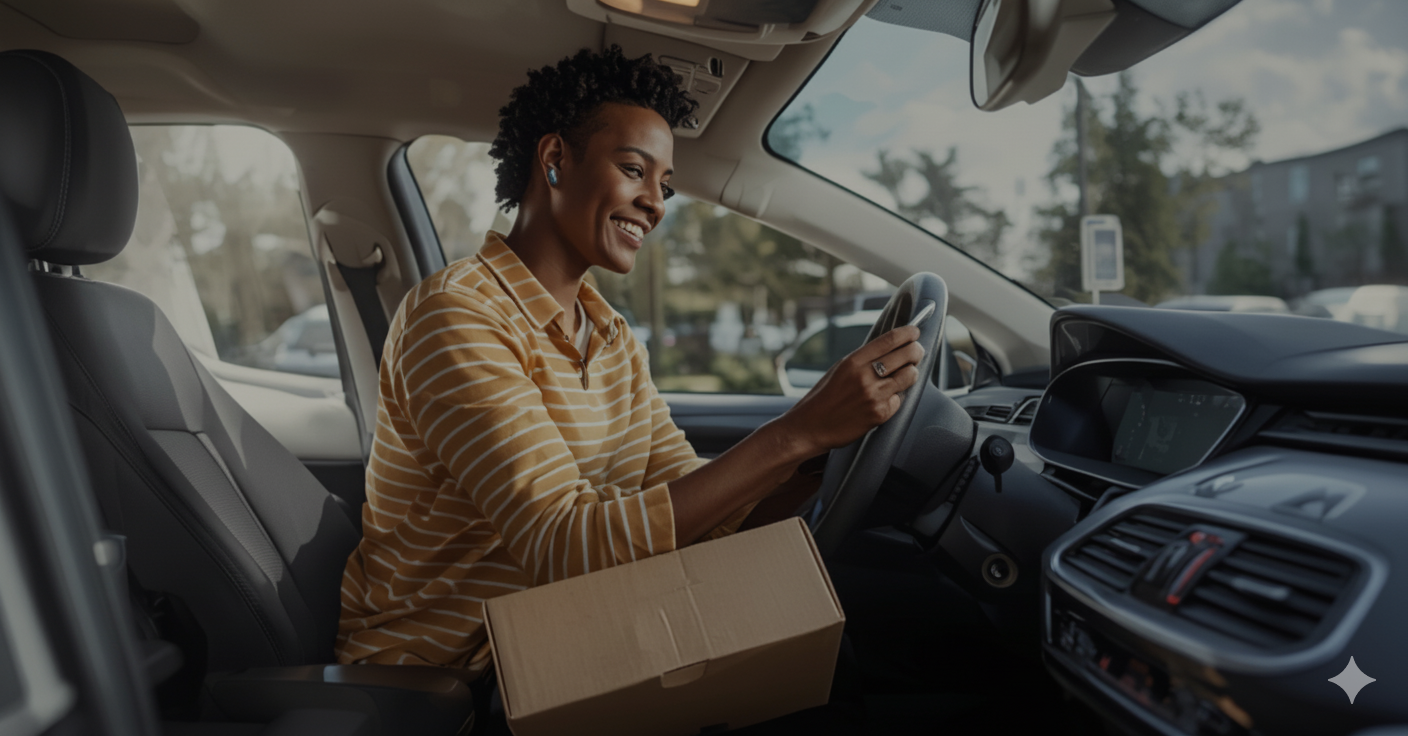
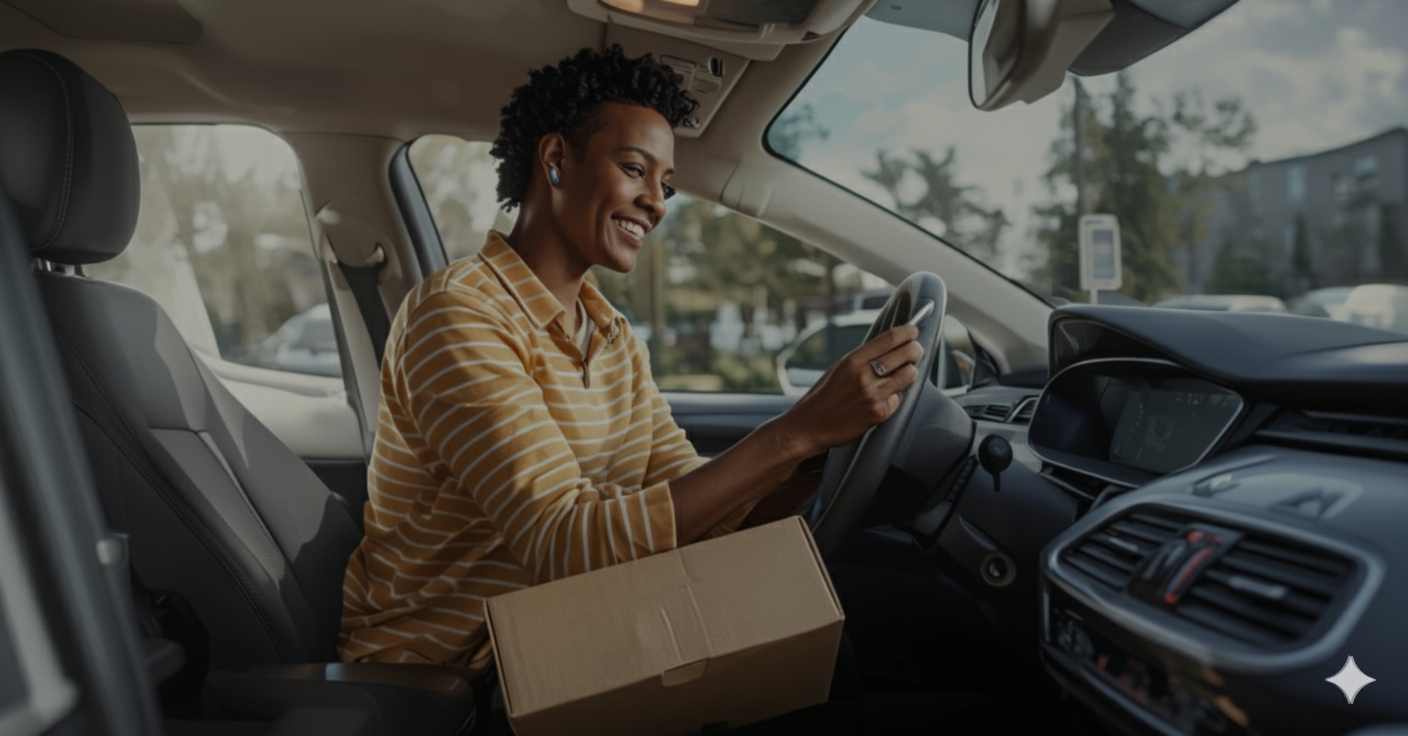
update

diff --git a/personal_car.html b/personal_car.html
@@ -321,85 +321,92 @@
             </div>
         </section>
         <!-- Why Personal Drivers Love Fore -->
-        <section class="container py-10">
-            <div class="text-center">
-                <h2 class="font-poppins font-medium  text-2xl md:text-3xl lg:text-4xl xl:text-5xl">Why Personal Drivers
-                    Love Fore</h2>
-            </div>
-            <div class="grid grid-cols-1 sm:grid-cols-2 md:grid-cols-2 lg:grid-cols-4 gap-4 pt-10 px-4 md:px-0">
-                <div class="p-6 shadow-md rounded-xl border border-gray-200">
-                    <div class="w-12 h-12 flex items-center justify-center">
-                        <img src="/assets/images/personal_love_pore (2).svg" alt="">
-                    </div>
-                    <h3 class="text-base md:text-lg font-medium font-inter mt-3">One Flat Fee</h3>
-                    <p class="text-sm md:text-base mt-2 font-poppins text-gray-700">Insurance, Maintenance & Roadside
-                        Included. No hidden costs, ever.</p>
+        <section class="py-10 bg-secondary">
+            <div class="container ">
+                <div class="text-center">
+                    <h2 class="font-poppins font-medium  text-2xl md:text-3xl lg:text-4xl xl:text-5xl">Why Personal
+                        Drivers
+                        Love Fore</h2>
                 </div>
+                <div class="grid grid-cols-1 sm:grid-cols-2 md:grid-cols-2 lg:grid-cols-4 gap-4 pt-10 px-4 md:px-0">
+                    <div class="p-6 shadow-md rounded-xl border border-gray-200">
+                        <div class="w-12 h-12 flex items-center justify-center">
+                            <img src="/assets/images/personal_love_pore (2).svg" alt="">
+                        </div>
+                        <h3 class="text-base md:text-lg font-medium font-inter mt-3">One Flat Fee</h3>
+                        <p class="text-sm md:text-base mt-2 font-poppins text-gray-700">Insurance, Maintenance &
+                            Roadside
+                            Included. No hidden costs, ever.</p>
+                    </div>
 
-                <div class="p-6 shadow-md rounded-xl border border-gray-200">
-                    <div class="w-10 h-10 flex items-center justify-center">
-                        <img src="/assets/images/personal_love_pore (4).svg" alt="">
+                    <div class="p-6 shadow-md rounded-xl border border-gray-200">
+                        <div class="w-10 h-10 flex items-center justify-center">
+                            <img src="/assets/images/personal_love_pore (4).svg" alt="">
+                        </div>
+                        <h3 class="text-base md:text-lg font-medium font-inter mt-4">No Long-Term Contract</h3>
+                        <p class="text-sm md:text-base mt-2 font-poppins text-gray-700">Keep It As Long As You Want;
+                            Return
+                            Anytime With Just 30 Days' Notice.</p>
                     </div>
-                    <h3 class="text-base md:text-lg font-medium font-inter mt-4">No Long-Term Contract</h3>
-                    <p class="text-sm md:text-base mt-2 font-poppins text-gray-700">Keep It As Long As You Want; Return
-                        Anytime With Just 30 Days' Notice.</p>
-                </div>
 
-                <div class="p-6 shadow-md rounded-xl border border-gray-200">
-                    <div class="w-10 h-10 flex items-center justify-center">
-                        <img src="/assets/images/personal_love_pore (1).svg" alt="">
+                    <div class="p-6 shadow-md rounded-xl border border-gray-200">
+                        <div class="w-10 h-10 flex items-center justify-center">
+                            <img src="/assets/images/personal_love_pore (1).svg" alt="">
+                        </div>
+                        <h3 class="text-base md:text-lg font-medium font-inter mt-4">Drive Safe, Save More</h3>
+                        <p class="text-sm md:text-base mt-2 font-poppins text-gray-700">Safe Drivers Automatically Earn
+                            Subscription Discounts.</p>
                     </div>
-                    <h3 class="text-base md:text-lg font-medium font-inter mt-4">Drive Safe, Save More</h3>
-                    <p class="text-sm md:text-base mt-2 font-poppins text-gray-700">Safe Drivers Automatically Earn
-                        Subscription Discounts.</p>
-                </div>
 
-                <div class="p-6 shadow-md rounded-xl border border-gray-200">
-                    <div class="w-10 h-10 flex items-center justify-center">
-                        <img src="/assets/images/personal_love_pore (3).svg" alt="">
+                    <div class="p-6 shadow-md rounded-xl border border-gray-200">
+                        <div class="w-10 h-10 flex items-center justify-center">
+                            <img src="/assets/images/personal_love_pore (3).svg" alt="">
+                        </div>
+                        <h3 class="text-base md:text-lg font-medium font-inter mt-4">Upgrade or Swap Anytime</h3>
+                        <p class="text-sm md:text-base mt-2 font-poppins text-gray-700">Need A Bigger Car For A Trip?
+                            Swap
+                            It. Want To Try An EV? Go For It.</p>
                     </div>
-                    <h3 class="text-base md:text-lg font-medium font-inter mt-4">Upgrade or Swap Anytime</h3>
-                    <p class="text-sm md:text-base mt-2 font-poppins text-gray-700">Need A Bigger Car For A Trip? Swap
-                        It. Want To Try An EV? Go For It.</p>
                 </div>
-            </div>
-            <div class="flex flex-col items-center gap-6 mt-5 justify-center md:flex-row md:gap-12 md:px-4 lg:px-0">
-                <div class="flex items-center space-x-2">
-                    <div class="flex items-center justify-center flex-shrink-0 w-6 h-6 text-[#0025D4]">
-                        <svg xmlns="http://www.w3.org/2000/svg" viewBox="0 0 24 24" fill="none" stroke="currentColor"
-                            stroke-width="2" stroke-linecap="round" stroke-linejoin="round">
-                            <path d="M12 22s8-4 8-10V5l-8-3-8 3v7c0 6 8 10 8 10z"></path>
-                            <polyline points="9 12 12 15 15 9"></polyline>
-                        </svg>
+                <div class="flex flex-col items-center gap-6 mt-5 justify-center md:flex-row md:gap-12 md:px-4 lg:px-0">
+                    <div class="flex items-center space-x-2">
+                        <div class="flex items-center justify-center flex-shrink-0 w-6 h-6 text-[#0025D4]">
+                            <svg xmlns="http://www.w3.org/2000/svg" viewBox="0 0 24 24" fill="none"
+                                stroke="currentColor" stroke-width="2" stroke-linecap="round" stroke-linejoin="round">
+                                <path d="M12 22s8-4 8-10V5l-8-3-8 3v7c0 6 8 10 8 10z"></path>
+                                <polyline points="9 12 12 15 15 9"></polyline>
+                            </svg>
+                        </div>
+                        <span class="text-base font-semibold text-[#0025D4] font-helvetica">All plans include
+                            insurance</span>
                     </div>
-                    <span class="text-base font-semibold text-[#0025D4] font-helvetica">All plans include
-                        insurance</span>
-                </div>
 
-                <div class="flex items-center space-x-2">
-                    <div class="flex items-center justify-center flex-shrink-0 w-6 h-6 text-[#0025D4]">
-                        <svg xmlns="http://www.w3.org/2000/svg" viewBox="0 0 24 24" fill="none" stroke="currentColor"
-                            stroke-width="2" stroke-linecap="round" stroke-linejoin="round">
-                            <circle cx="12" cy="12" r="3"></circle>
-                            <path
-                                d="M19.4 15a1.65 1.65 0 0 0 .33 1.82l.06.06a2 2 0 0 1 0 2.83 2 2 0 0 1-2.83 0l-.06-.06a1.65 1.65 0 0 0-1.82-.33H15.8a1.65 1.65 0 0 0-1.51 1v.09a2 2 0 0 1-2 2 2 2 0 0 1-2-2v-.09a1.65 1.65 0 0 0-1.51-1H4.2a1.65 1.65 0 0 0-1.82.33l-.06.06a2 2 0 0 1-2.83 0 2 2 0 0 1 0-2.83l.06-.06a1.65 1.65 0 0 0 .33-1.82V9a1.65 1.65 0 0 0-1.51-1H3a2 2 0 0 1-2-2 2 2 0 0 1 2-2h.09a1.65 1.65 0 0 0 1.51-1V3a2 2 0 0 1 2-2 2 2 0 0 1 2 2v.09a1.65 1.65 0 0 0 1.51 1H12.2a1.65 1.65 0 0 0 1.82-.33l.06-.06a2 2 0 0 1 2.83 0 2 2 0 0 1 0 2.83l-.06.06a1.65 1.65 0 0 0-.33 1.82V15a1.65 1.65 0 0 0 1.51 1H21a2 2 0 0 1 2 2 2 2 0 0 1-2 2h-.09a1.65 1.65 0 0 0-1.51 1z">
-                            </path>
-                        </svg>
+                    <div class="flex items-center space-x-2">
+                        <div class="flex items-center justify-center flex-shrink-0 w-6 h-6 text-[#0025D4]">
+                            <svg xmlns="http://www.w3.org/2000/svg" viewBox="0 0 24 24" fill="none"
+                                stroke="currentColor" stroke-width="2" stroke-linecap="round" stroke-linejoin="round">
+                                <circle cx="12" cy="12" r="3"></circle>
+                                <path
+                                    d="M19.4 15a1.65 1.65 0 0 0 .33 1.82l.06.06a2 2 0 0 1 0 2.83 2 2 0 0 1-2.83 0l-.06-.06a1.65 1.65 0 0 0-1.82-.33H15.8a1.65 1.65 0 0 0-1.51 1v.09a2 2 0 0 1-2 2 2 2 0 0 1-2-2v-.09a1.65 1.65 0 0 0-1.51-1H4.2a1.65 1.65 0 0 0-1.82.33l-.06.06a2 2 0 0 1-2.83 0 2 2 0 0 1 0-2.83l.06-.06a1.65 1.65 0 0 0 .33-1.82V9a1.65 1.65 0 0 0-1.51-1H3a2 2 0 0 1-2-2 2 2 0 0 1 2-2h.09a1.65 1.65 0 0 0 1.51-1V3a2 2 0 0 1 2-2 2 2 0 0 1 2 2v.09a1.65 1.65 0 0 0 1.51 1H12.2a1.65 1.65 0 0 0 1.82-.33l.06-.06a2 2 0 0 1 2.83 0 2 2 0 0 1 0 2.83l-.06.06a1.65 1.65 0 0 0-.33 1.82V15a1.65 1.65 0 0 0 1.51 1H21a2 2 0 0 1 2 2 2 2 0 0 1-2 2h-.09a1.65 1.65 0 0 0-1.51 1z">
+                                </path>
+                            </svg>
+                        </div>
+                        <span class="text-base font-semibold text-[#0025D4] font-helvetica">Regularly Maintained</span>
                     </div>
-                    <span class="text-base font-semibold text-[#0025D4] font-helvetica">Regularly Maintained</span>
-                </div>
 
-                <div class="flex items-center space-x-2">
-                    <div class="flex items-center justify-center flex-shrink-0 w-6 h-6 text-[#0025D4]">
-                        <svg xmlns="http://www.w3.org/2000/svg" viewBox="0 0 24 24" fill="none" stroke="currentColor"
-                            stroke-width="2" stroke-linecap="round" stroke-linejoin="round"
-                            class="lucide lucide-headset-icon lucide-headset">
-                            <path
-                                d="M3 11h3a2 2 0 0 1 2 2v3a2 2 0 0 1-2 2H5a2 2 0 0 1-2-2v-5Zm0 0a9 9 0 1 1 18 0m0 0v5a2 2 0 0 1-2 2h-1a2 2 0 0 1-2-2v-3a2 2 0 0 1 2-2h3Z" />
-                            <path d="M21 16v2a4 4 0 0 1-4 4h-5" />
-                        </svg>
+                    <div class="flex items-center space-x-2">
+                        <div class="flex items-center justify-center flex-shrink-0 w-6 h-6 text-[#0025D4]">
+                            <svg xmlns="http://www.w3.org/2000/svg" viewBox="0 0 24 24" fill="none"
+                                stroke="currentColor" stroke-width="2" stroke-linecap="round" stroke-linejoin="round"
+                                class="lucide lucide-headset-icon lucide-headset">
+                                <path
+                                    d="M3 11h3a2 2 0 0 1 2 2v3a2 2 0 0 1-2 2H5a2 2 0 0 1-2-2v-5Zm0 0a9 9 0 1 1 18 0m0 0v5a2 2 0 0 1-2 2h-1a2 2 0 0 1-2-2v-3a2 2 0 0 1 2-2h3Z" />
+                                <path d="M21 16v2a4 4 0 0 1-4 4h-5" />
+                            </svg>
+                        </div>
+                        <span class="text-base font-semibold text-[#0025D4] font-helvetica">24/7 Roadside
+                            Assistance</span>
                     </div>
-                    <span class="text-base font-semibold text-[#0025D4] font-helvetica">24/7 Roadside Assistance</span>
                 </div>
             </div>
         </section>
@@ -654,7 +661,7 @@
         </section>
         <!-- Find the Plan That Fits Your Life -->
 
-        <section class=" font-inter">
+        <section class=" font-inter bg-secondary">
 
             <div class="py-16 px-4">
                 <div class="text-center mb-12">
@@ -1026,7 +1033,7 @@
         </section>
 
         <!-- testimonial -->
-        <section class="py-10 px-4 lg:px-0">
+        <section class="py-20 px-4 lg:px-0 bg-secondary">
             <div class="container relative">
                 <div class="relative">
                     <div class="swiper testimonial-swiper">

diff --git a/index.html b/index.html
@@ -114,13 +114,23 @@
             </div>
         </div>
     </section>
-    <header
-        class="relative py-5 z-10 bg-[url('../images/landing-page-hero.png')] bg-cover bg-center min-h-[80vh] md:min-h-[90vh] lg:min-h-screen">
+    <header class="relative py-5 z-10 min-h-[80vh] md:min-h-[90vh] lg:min-h-screen">
+
+        <!-- Desktop Background -->
+        <div class="hidden md:block absolute inset-0 bg-[url('../images/landing-page-hero.png')] bg-cover bg-center">
+        </div>
+
+        <!-- Mobile Background -->
+        <div
+            class="block md:hidden absolute inset-0 bg-[url('../images/home_banner_mobile.png')] bg-cover bg-center">
+        </div>
+
+        <!-- Nav -->
         <nav
-            class="container mx-auto px-4 lg:px-0 py-6 sm:py-0 flex flex-col md:flex-row justify-between items-center ">
+            class="relative container mx-auto px-4 lg:px-0 py-6 sm:py-0 flex flex-col md:flex-row justify-between items-center z-20">
             <div class="flex justify-between items-center w-full md:w-auto">
                 <div class="text-center mb-4 md:mb-0">
-                    <a href="/"> <img src="assets/images/logo.png" alt="FORE MOBILITY Logo"
+                    <a href="/"><img src="assets/images/logo.png" alt="FORE MOBILITY Logo"
                             class="sm:w-40 sm:h-14 w-28 h-10 mx-auto"></a>
                     <span class="sm:text-font-22px text-font-16px font-bebas text-white">FORE MOBILITY</span>
                 </div>
@@ -133,8 +143,11 @@
                 </button>
             </div>
 
+            <!-- Menu -->
             <div id="main-menu"
                 class="hidden md:flex flex-col md:flex-row space-y-4 md:space-y-0 md:space-x-6 sm:space-x-4 space-x-2 items-center w-full md:w-auto">
+
+                <!-- Public Dropdown -->
                 <div class="relative group w-full text-center" x-data="{ open: false }" @click.away="open = false">
                     <button @click="open = !open"
                         class="flex items-center space-x-1 text-base sm:text-lg font-medium text-white focus:outline-none w-full justify-center">
@@ -145,27 +158,17 @@
                             </path>
                         </svg>
                     </button>
-                    <div x-show="open" x-cloak x-transition:enter="transition ease-out duration-200"
-                        x-transition:enter-start="opacity-0 transform scale-95"
-                        x-transition:enter-end="opacity-100 transform scale-100"
-                        x-transition:leave="transition ease-in duration-150"
-                        x-transition:leave-start="opacity-100 transform scale-100"
-                        x-transition:leave-end="opacity-0 transform scale-95"
+                    <div x-show="open" x-cloak x-transition
                         class="absolute left-1/2 -translate-x-1/2 md:left-0 md:translate-x-0 mt-2 w-48 rounded-lg shadow-lg bg-white z-20">
-                        <div class="" role="menu" aria-orientation="vertical" aria-labelledby="options-menu">
-                            <a href="/" class="block px-4 py-2 text-sm text-gray-700 hover:bg-gray-100 active_button"
-                                role="menuitem">Home</a>
-                            <a href="/gig_drivers.html" class="block px-4 py-2 text-sm text-gray-700 hover:bg-gray-100"
-                                role="menuitem">Gig
-                                Drivers</a>
-                            <a href="/personal_car.html" class="block px-4 py-2 text-sm text-gray-700 hover:bg-gray-100"
-                                role="menuitem">Personal
-                                Car</a>
-
-                        </div>
+                        <a href="/" class="block px-4 py-2 text-sm active_button text-gray-700 hover:bg-gray-100">Home</a>
+                        <a href="/gig_drivers.html" class="block px-4 py-2 text-sm text-gray-700 hover:bg-gray-100">Gig
+                            Drivers</a>
+                        <a href="/personal_car.html"
+                            class="block px-4 py-2 text-sm text-gray-700 hover:bg-gray-100">Personal Car</a>
                     </div>
                 </div>
 
+                <!-- Private Dropdown -->
                 <div class="relative group w-full text-center" x-data="{ open: false }" @click.away="open = false">
                     <button @click="open = !open"
                         class="flex items-center space-x-1 text-base sm:text-lg font-medium text-white focus:outline-none w-full justify-center">
@@ -176,28 +179,19 @@
                             </path>
                         </svg>
                     </button>
-                    <div x-show="open" x-cloak x-transition:enter="transition ease-out duration-200"
-                        x-transition:enter-start="opacity-0 transform scale-95"
-                        x-transition:enter-end="opacity-100 transform scale-100"
-                        x-transition:leave="transition ease-in duration-150"
-                        x-transition:leave-start="opacity-100 transform scale-100"
-                        x-transition:leave-end="opacity-0 transform scale-95"
-                        class="absolute left-1/2 -translate-x-1/2 md:left-0 md:translate-x-0 mt-2 w-48 rounded-md shadow-lg bg-white   z-20">
-                        <div class="py-1" role="menu" aria-orientation="vertical" aria-labelledby="options-menu">
-                            <a href="/business_fleet.html"
-                                class="block px-4 py-2 text-sm text-gray-700 hover:bg-gray-100" role="menuitem">Business
-                                Fleet</a>
-                            <a href="/real_estate.html" class="block px-4 py-2 text-sm text-gray-700 hover:bg-gray-100"
-                                role="menuitem">Real
-                                Estate</a>
-
-                        </div>
+                    <div x-show="open" x-cloak x-transition
+                        class="absolute left-1/2 -translate-x-1/2 md:left-0 md:translate-x-0 mt-2 w-48 rounded-md shadow-lg bg-white z-20">
+                        <a href="/business_fleet.html"
+                            class="block px-4 py-2 text-sm text-gray-700 hover:bg-gray-100">Business Fleet</a>
+                        <a href="/real_estate.html" class="block px-4 py-2 text-sm text-gray-700 hover:bg-gray-100">Real
+                            Estate</a>
                     </div>
                 </div>
             </div>
 
+            <!-- CTA -->
             <div class="mt-4 md:mt-0 hidden md:block">
-                <button @click="open = true"
+                <button
                     class="inline-flex items-center sm:px-6 px-3 sm:py-3 py-1 bg-primary sm:text-base text-xs text-white rounded-md font-medium font-inter hover:bg-blue-700 transition duration-300">
                     <span>Find out more</span>
                     <svg xmlns="http://www.w3.org/2000/svg" class="h-5 w-5 ml-2" fill="none" viewBox="0 0 24 24"
@@ -208,30 +202,34 @@
                 </button>
             </div>
         </nav>
-        <!-- inner banner -->
-        <section class="container  px-4 md:px-0 md:pt-18">
-            <div class="justify-start items-center max-w-full lg:max-w-[900px] ">
+
+        <!-- Hero -->
+        <section class="container px-4 md:px-0 md:pt-18 relative z-10">
+            <div class="max-w-full lg:max-w-[900px]">
                 <div class="text-start pr-0 md:px-4 lg:px-0 lg:pr-48">
-                    <h1 class="sm:text-4xl text-xl md:text-6xl font-inter! font-medium text-white mb-4 leading-tight">
+                    <h1 class="sm:text-4xl text-xl md:text-6xl font-medium text-white mb-4 leading-tight">
                         Drive Your Way — No <br> Loans, No Hassle
                     </h1>
-                    <p class="sm:text-lg text-base md:text-2xl text-white font-light leading-relaxed font-inter">Cars
-                        for personal
-                        use,
-                        gig work,
-                        small business, and multifamily communities — with insurance & maintenance included.</p>
+                    <p class="sm:text-lg text-base md:text-2xl text-white font-light leading-relaxed">
+                        Cars for personal use, gig work, small business, and multifamily communities — with insurance &
+                        maintenance included.
+                    </p>
                 </div>
+
+                <!-- Search -->
                 <div
-                    class="flex flex-row items-center md:mx-4 lg:mx-0 p-0.5 mt-8 rounded-full shadow-lg bg-white/15 bg-opacity-70 backdrop-blur-lg border border-white border-opacity-20 max-w-full sm:max-w-[500px] min-h-[40]">
+                    class="flex flex-row items-center md:mx-4 lg:mx-0 p-0.5 mt-8 rounded-full shadow-lg bg-white/15 backdrop-blur-lg border border-white border-opacity-20 max-w-full sm:max-w-[500px] min-h-[40px]">
                     <input type="text" placeholder="Check cars near you"
                         class="flex-grow bg-transparent text-white placeholder-white px-4 py-2 rounded-full focus:outline-none text-font-12px sm:text-font-14px w-full sm:w-auto mb-2 sm:mb-0">
                     <button
-                        class="bg-primary text-white  text-font-12px sm:text-font-14px rounded-full px-6 py-2 font-normal font-inter hover:bg-blue-700 transition duration-300 w-auto">
+                        class="bg-primary text-white text-font-12px sm:text-font-14px rounded-full px-6 py-2 font-normal font-inter hover:bg-blue-700 transition duration-300 w-auto">
                         Check
                     </button>
                 </div>
 
+                <!-- Feature Cards -->
                 <div class="grid grid-cols-2 lg:grid-cols-4 gap-4 md:gap-6 w-full md:px-4 lg:px-0 mt-14">
+                    <!-- Personal -->
                     <div
                         class="bg-primary bg-opacity-80 text-white p-3 px-6 rounded-xl flex flex-col justify-between items-start text-left">
                         <svg xmlns="http://www.w3.org/2000/svg" viewBox="0 0 24 24" fill="none" stroke="currentColor"
@@ -243,6 +241,7 @@
                         <p class="text-sm">Everyday errands & weekend trips</p>
                     </div>
 
+                    <!-- Gig -->
                     <div
                         class="bg-primary bg-opacity-80 text-white p-3 px-6 rounded-xl flex flex-col justify-between items-start text-left">
                         <svg xmlns="http://www.w3.org/2000/svg" viewBox="0 0 24 24" fill="none" stroke="currentColor"
@@ -254,6 +253,7 @@
                         <p class="text-sm">Affordable cars for Uber, Lyft, DoorDash</p>
                     </div>
 
+                    <!-- Small Business -->
                     <div
                         class="bg-primary bg-opacity-80 text-white p-3 px-6 rounded-xl flex flex-col justify-between items-start text-left">
                         <svg xmlns="http://www.w3.org/2000/svg" viewBox="0 0 24 24" fill="none" stroke="currentColor"
@@ -265,6 +265,7 @@
                         <p class="text-sm">Flexible fleet for your team</p>
                     </div>
 
+                    <!-- Multifamily -->
                     <div
                         class="bg-primary bg-opacity-80 text-white p-3 px-6 rounded-xl flex flex-col justify-between items-start text-left">
                         <svg xmlns="http://www.w3.org/2000/svg" viewBox="0 0 24 24" fill="none" stroke="currentColor"
@@ -272,13 +273,11 @@
                             <path d="M3 9l9-7 9 7v11a2 2 0 0 1-2 2H5a2 2 0 0 1-2-2z"></path>
                             <polyline points="9 22 9 12 15 12 15 22"></polyline>
                         </svg>
-
                         <h3 class="font-medium text-base mb-2">Multifamily</h3>
                         <p class="text-sm">Shared cars for apartment residents</p>
                     </div>
                 </div>
-
-                <div
+                 <div
                     class="flex flex-col md:flex-row md:px-4 lg:px-0 items-center sm:items-start mt-12 gap-6 md:gap-12">
 
                     <div class="flex items-center space-x-2">
@@ -321,6 +320,7 @@
             </div>
         </section>
     </header>
+
     <main>
         <!-- get the app -->
         <section class="bg-white pt-16 sm:pt-18 lg:pt-20 pb-8 relative z-10 container  px-4 lg:px-0">
